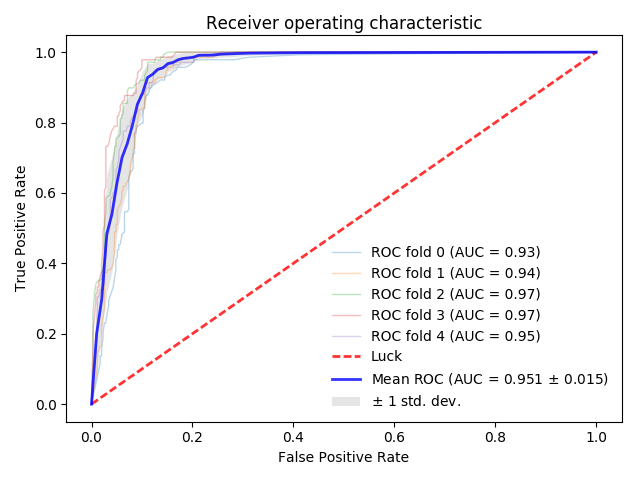
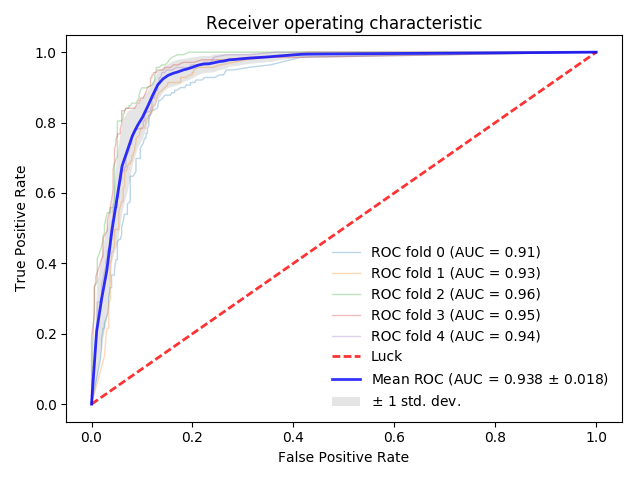
search for sequences in genome

diff --git a/tn_bash_pipe.py b/tn_bash_pipe.py
@@ -1,18 +1,59 @@
 import os
 import subprocess
+import argparse
 
+PAIRED_END_FLAG = '--pe'
+
+DATA_DIRECTORY = 'SCTrainingSet' + os.sep
 FASTQ_SUFFIX = '.fastq'
 SAM_SUFFIX = '.sam'
 BAM_SUFFIX = '.bam'
+BAI_SUFFIX = '.bai'
 
-file_preffix = input('Enter .fastq filename: ')
+FASTQ_1 = input('Enter forward fastq: ') + FASTQ_SUFFIX
 
-fastq_file = file_preffix + FASTQ_SUFFIX
-sam_file = file_preffix + SAM_SUFFIX
-bam_file = file_preffix + BAM_SUFFIX
+FILE_PREFIX = input('Enter output filename: ')
 
-if not os.path.exists(sam_file):
-    count_logfile = open(sam_file, 'w')
-    proc = subprocess.Popen(['bowtie2', '-p 8', '--end-to-end', '-x sc', '--fr -1 FreadI1_trimmed.fastq -2 RreadI1.fastq', '-S Both_readI1_trimmed.sam'], stdout=count_logfile)
+SAM_FILE = FILE_PREFIX + SAM_SUFFIX
+BAM_FILE = FILE_PREFIX + BAM_SUFFIX
+SORTED_BAM = FILE_PREFIX + '_sorted_'+ BAM_SUFFIX
+BAM_INDEX = SORTED_BAM + BAI_SUFFIX
+
+# TODO: add reference indexing optionality for different species
+# wrap reference index in subprocess
+
+SC_REF = 'sc'
+
+
+def arguments():
+    
+    parser = argparse.ArgumentParser()
+    parser.add_argument(PAIRED_END_FLAG, dest='pe', action='store_true')
+
+    return parser.parse_args()
+
+if not os.path.exists(DATA_DIRECTORY):
+    os.makedirs(DATA_DIRECTORY)
+
+if not os.path.exists(DATA_DIRECTORY + SAM_FILE):
+    print('Aligning reads...')
+    if arguments().pe:
+        FASTQ_2 = input('Enter reverse fastq: ') + FASTQ_SUFFIX
+        proc = subprocess.call(['bowtie2', '-p', '8', '--end-to-end', '-x', DATA_DIRECTORY + SC_REF, '--fr', '-1', DATA_DIRECTORY + FASTQ_1, '-2', DATA_DIRECTORY + FASTQ_2, '-S', DATA_DIRECTORY + SAM_FILE])
+    else:
+        proc = subprocess.call(['bowtie2', '-p', '8', '--end-to-end', '-x', DATA_DIRECTORY + SC_REF, '-U', DATA_DIRECTORY + FASTQ_1, '-S', DATA_DIRECTORY + SAM_FILE])
+
+if not os.path.exists(DATA_DIRECTORY + BAM_FILE):    
+    print('Converting sam to bam...')
+    bam_logfile = open(DATA_DIRECTORY + BAM_FILE, 'w')
+    proc = subprocess.Popen(['samtools', 'view', '-Sb', DATA_DIRECTORY + SAM_FILE], stdout=bam_logfile)
     proc.wait()
     proc.kill()
+
+if not os.path.exists(DATA_DIRECTORY + SORTED_BAM):
+    print('Sorting reads...')
+    proc = subprocess.call(['samtools', 'sort', '-o', DATA_DIRECTORY + SORTED_BAM, DATA_DIRECTORY + BAM_FILE])
+
+if not os.path.exists(DATA_DIRECTORY + BAM_INDEX):
+    print('Indexing bam...')
+    proc = subprocess.call(['samtools', 'index', DATA_DIRECTORY + SORTED_BAM])

diff --git a/chart_verdicts.py b/chart_verdicts.py
@@ -1,26 +1,62 @@
 import pandas as pd
 import matplotlib.pyplot as plt
 from scipy.stats import spearmanr, pearsonr
+import numpy as np
+from matplotlib.ticker import NullFormatter
 
-data = pd.read_excel('sanity_check_2.xlsx')
+data = pd.read_excel('sanity_check_5.xlsx')
 
 acds = data.iloc[:, [0, 2]]
 hermes = data.iloc[:, [4, 5]]
 hermes.columns = ['Standard name', 'Hermes Verdict']
 merged = acds.merge(hermes)
-# print(merged)
-merged.to_csv('merged.csv')
+data = merged
 
-print(pearsonr(merged['AcDs Verdict'], merged['Hermes Verdict']))
+# data = pd.read_excel('/home/user/Desktop/transposon/verdict_difference.xlsx', header=0)
+# data = data.sort_values(by=['verdict difference'])
 
-sanity_check = pd.read_excel('sanity_check.xlsx').dropna()
-print(pearsonr(sanity_check['Sc RF verdict ScTn'], sanity_check['Sp RF verdict SpTn']))
+# data = pd.read_excel('swathi data.xlsx', header=0)
+print(data.head())
 
-# plt.plot(sanity_check['Sc RF verdict ScTn'], sanity_check['Sp RF verdict SpTn'], 'o', color='green')
-# plt.savefig('test14.png')
+tested_feature_1 = 'AcDs Verdict'
+tested_feature_2 = 'Hermes Verdict'
 
-plt.plot(list(merged['AcDs Verdict']), list(merged['Hermes Verdict']), 'o', color='black', ms=2)
-plt.xlabel('AcDs')
-plt.ylabel('Hermes')
-plt.savefig('test19.png')
+print(pearsonr(data[tested_feature_1], data[tested_feature_2]))
+
+x = data[tested_feature_1]
+y = data[tested_feature_2]
+
+# definitions for the axes
+left, width = 0.1, 0.65
+bottom, height = 0.1, 0.65
+bottom_h = left_h = left + width + 0.02
+
+rect_scatter = [left, bottom, width, height]
+rect_histx = [left, bottom_h, width, 0.2]
+rect_histy = [left_h, bottom, 0.2, height]
+
+# start with a rectangular Figure
+plt.figure(1, figsize=(8, 8))
+axScatter = plt.axes(rect_scatter)
+plt.xlabel(tested_feature_1, fontsize=18)
+plt.ylabel(tested_feature_2, fontsize=18)
+
+axHistx = plt.axes(rect_histx)
+axHisty = plt.axes(rect_histy)
+
+# no labels
+nullfmt = NullFormatter()
+axHistx.xaxis.set_major_formatter(nullfmt)
+axHisty.yaxis.set_major_formatter(nullfmt)
+
+# the scatter plot:
+axScatter.scatter(x, y, s=6)
+
+xbins = np.linspace(min(x), max(x), 30)
+ybins = np.linspace(min(y), max(y), 30)
+
+axHistx.hist(x, bins=xbins)
+axHisty.hist(y, bins=ybins, orientation='horizontal')
+
+plt.savefig('both_' + tested_feature_1 + ' vs. ' + tested_feature_2 + '.png')
 plt.show()

diff --git a/tn_ml.py b/tn_ml.py
@@ -12,15 +12,16 @@ rcParams.update({'figure.autolayout': True})
 
 CV_FILE_SUFFIX = ".png"
 
-data = pd.read_csv('/home/user/Desktop/transposon/FreadI1_trimmed_sorted_analysis.csv', header=0)
+data = pd.read_csv('/home/user/Desktop/transposon/FreadI2_trimmed_sorted__analysis.csv', header=0)
 # data = pd.read_excel('/home/user/Desktop/transposon/sanity_check_classifier.xlsx', header=0)
 
-selected_features = [1,3,4,5,6,7,8]
+selected_features = [1,3,4,5,6,7,9]
 # selected_features = [0,1,2,3,4,5,6]
 
 features = data.iloc[:, selected_features]
+print(features.head())
 all_genes_features = features.iloc[:, [1,2,3,4,5,6]]
-# print(all_genes_features)
+print(all_genes_features.head())
 
 ground_truth = pd.read_csv('training_set_Sc.csv', header=0)
 ground_truth = ground_truth.iloc[:, [0, 3]]
@@ -46,14 +47,14 @@ def cross_validate(X, y, data, all_genes_features, all_genes):
     # print(all_genes_features)
     # print(len(x))
     all_genes['Hermes Verdict'] = x
-    all_genes.to_csv('all_anton_verdict.csv')
+    all_genes.to_csv('f2_all_anton_verdict.csv')
     # print(all_genes)
     prob = pd.Series(probas_)
     verdict = pd.DataFrame()
     verdict['name'] = data['Standard name']
     verdict['label'] = y
     verdict['verdict'] = prob
-    verdict.to_csv('training_hermes_verdict.csv')
+    verdict.to_csv('f2_training_hermes_verdict.csv')
     
     # plotting of the ROC taken from the scikit-learn documentation
     tprs = []
@@ -89,7 +90,7 @@ def cross_validate(X, y, data, all_genes_features, all_genes):
     matplotlib.pyplot.ylabel("True Positive Rate")
     matplotlib.pyplot.title("Receiver operating characteristic")
     matplotlib.pyplot.legend(loc="lower right")
-    matplotlib.pyplot.savefig("sc_tn" + CV_FILE_SUFFIX)
+    matplotlib.pyplot.savefig("f2_sc_tn" + CV_FILE_SUFFIX)
     matplotlib.pyplot.show()
 
 
@@ -110,7 +111,7 @@ def plot_feat_imp():
     matplotlib.pyplot.bar(x_values, importances, orientation = 'vertical')
     matplotlib.pyplot.xticks(x_values, feature_list, rotation=45)
     matplotlib.pyplot.ylabel('Importance'); matplotlib.pyplot.title('Feature Importance');
-    matplotlib.pyplot.savefig('sc_tn' + '_feature_importance')
+    matplotlib.pyplot.savefig('both_sc_tn' + '_feature_importance')
     matplotlib.pyplot.show()
 
 

diff --git a/search_seq.py b/search_seq.py
@@ -2,19 +2,28 @@ from Bio.SeqUtils import nt_search
 from Bio import SeqIO
 
 query = 'NTNNNNAN'
-file = '/home/user/Desktop/transposon/SCTrainingSet/WT_1/FreadI1_trimmed.fastq'
+# file = '/home/user/Desktop/transposon/SCTrainingSet/WT_1/FreadI1_trimmed.fastq'
+file = '/home/user/Desktop/transposon/S288C_reference_sequence_R64-2-1_20150113.fsa'
 
-# counts number of appearances of a query sequence in a .fastq file 
-def count_appearance(file, query):
+# find positions of a query sequence in a genome:
+def find_positions(file, query):
+    genome = SeqIO.parse(file, 'fasta')
+    positions = nt_search(str(genome), query)
+    return positions
+
+
+# counts number of appearances of a query sequence in a file 
+def count_appearance(file, query, filetype='fasta'):
     count = 0
-    for record in SeqIO.parse('/home/user/Desktop/transposon/SCTrainingSet/WT_1/FreadI1_trimmed.fastq', 'fastq'):
-        x = nt_search(str(record), query)
+    total_length = 0
+    for record in SeqIO.parse(file, filetype):
+        x = nt_search(str(record.seq), query)
         count += len(x[1:])
+        total_length += len(record.seq)
+    print(total_length)
+    print(count)
+    print(total_length / count)
 
-    return count
-
-# x = count_appearance(file, query)
-# print(x)
 
 # counts lines in a txt file
 def count_lines(file):
@@ -23,5 +32,4 @@ def count_lines(file):
             pass
     return i + 1
 
-# print(count_lines('/home/user/Desktop/transposon/SCTrainingSet/mapped_sorted_reads.txt'))
-# print(count_lines('/home/user/Desktop/transposon/SCTrainingSet/unmapped_sorted_reads.txt'))
+count_appearance(file, query)

diff --git a/tempCodeRunnerFile.py b/tempCodeRunnerFile.py
@@ -1,1 +1,3 @@
-Ac/Ds
+plt.xlabel(tested_feature_1)
+# plt.ylabel(tested_feature_2)
+# plt.title(tested_feature_1 + ' vs. ' + tested_feature_2)
